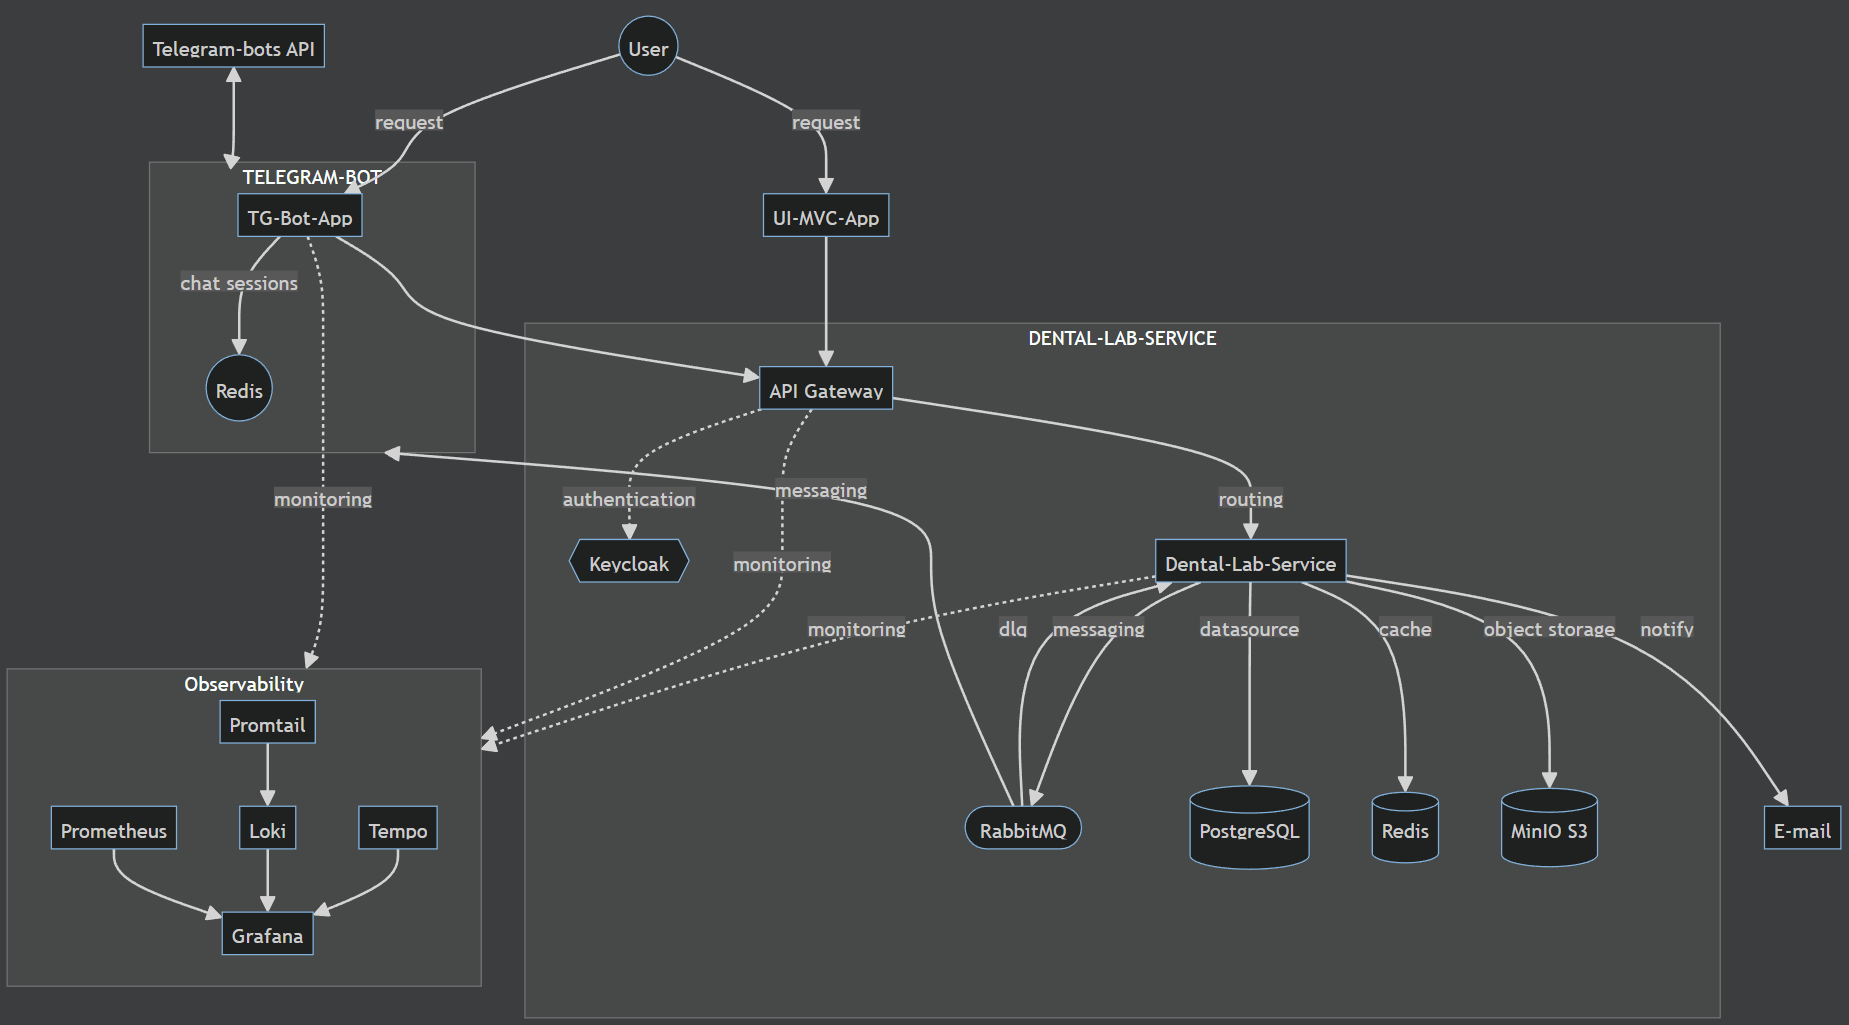
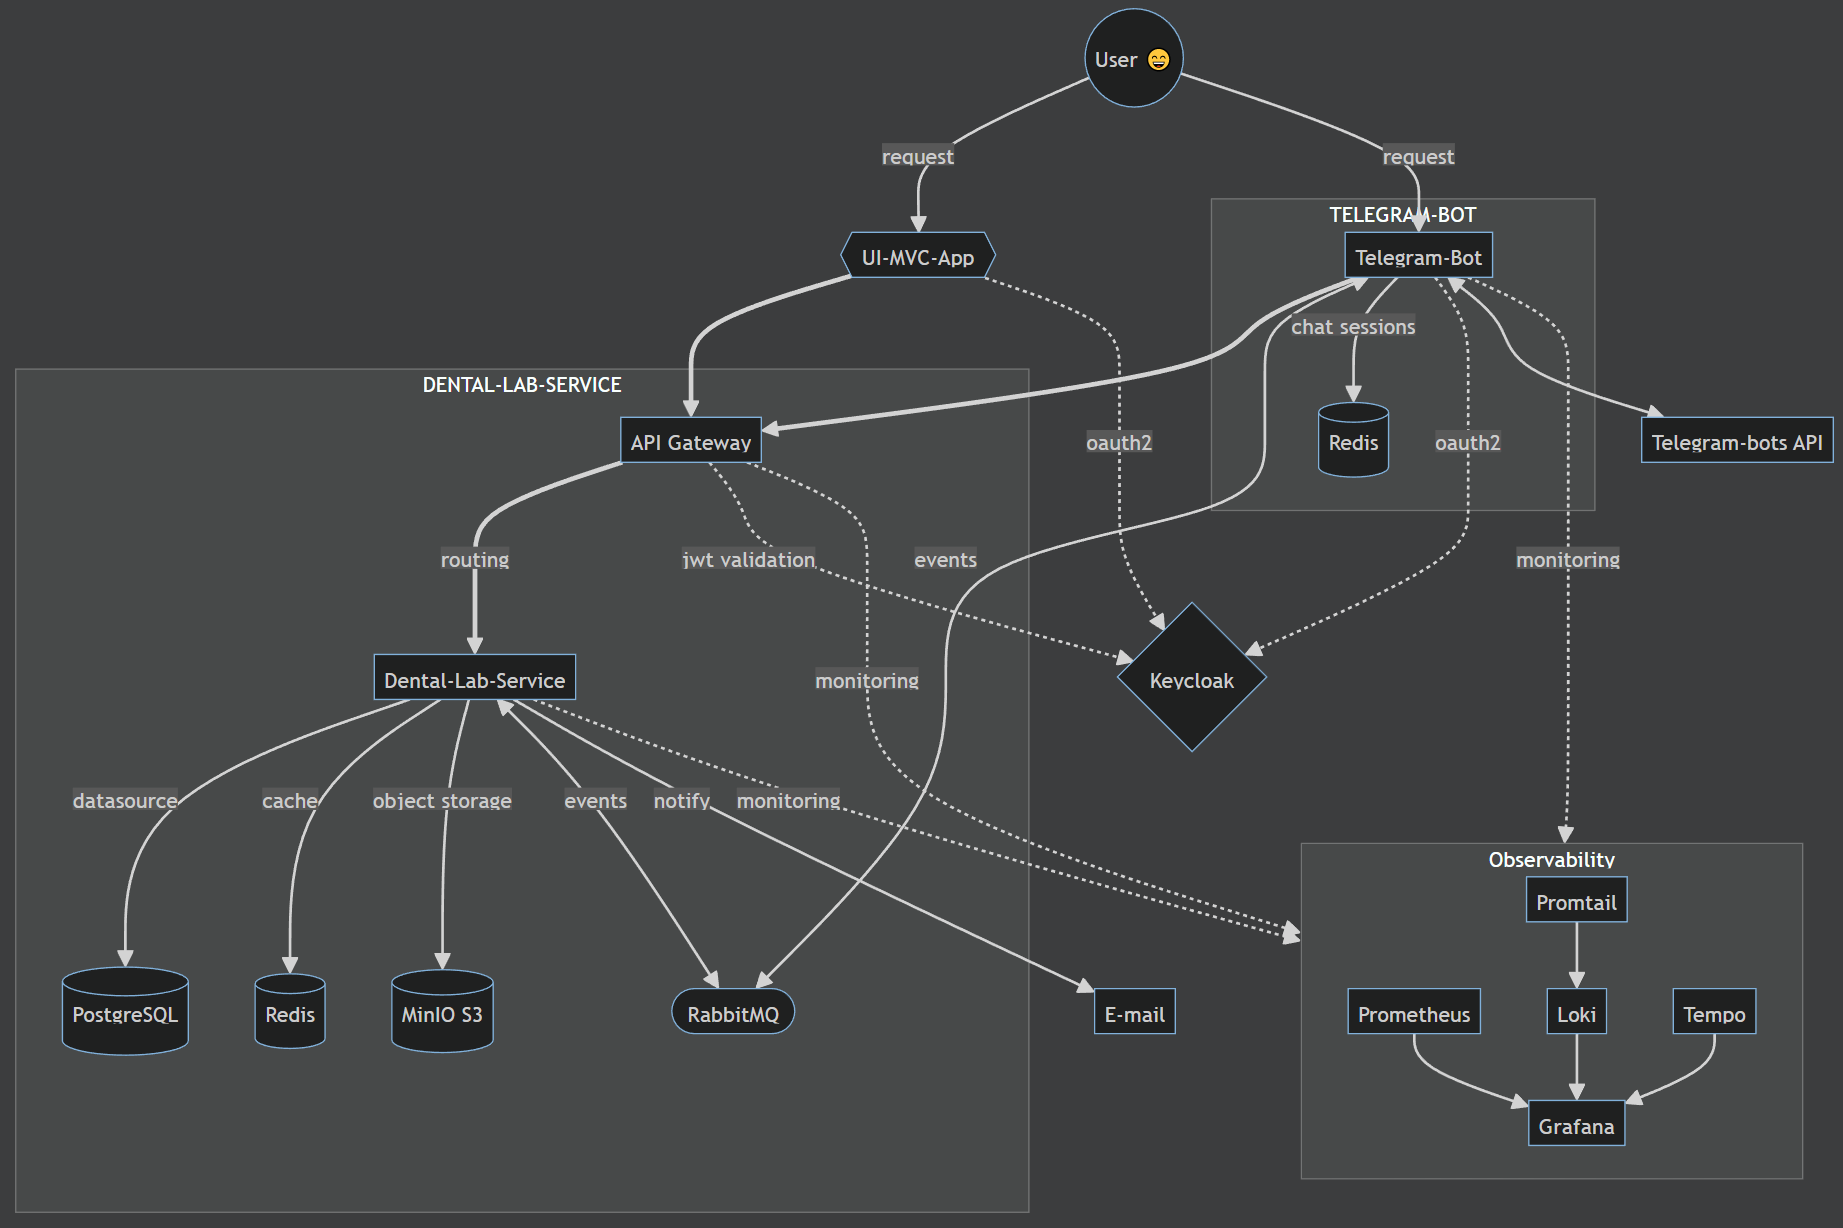
update README.md

diff --git a/README.md b/README.md
@@ -108,10 +108,157 @@
 - Gradle
 
 ---
-> ## Архитектура ##
+> ## Архитектура
+
+Система состоит из нескольких независимых компонентов:
+пользовательского `веб-интерфейса`, `Telegram-бота`, `backend-сервиса` и `инфраструктурных сервисов`.
+Бизнес-логика сосредоточена в `Dental-Lab-Service`, а взаимодействие между компонентами осуществляется через `API Gateway` и `RabbitMQ`.
+Аутентификация и авторизация осуществляется через сервис `Keycloak`.
 
 <img src="./docs/diagram.png">
 
 ---
 
 [Файл диаграммы](docs/diagram.md)
+
+---
+> ## Технические решения
+
+### RabbitMQ вместо Apache Kafka
+
+Для асинхронного взаимодействия между сервисами выбран RabbitMQ.
+
+Причины выбора:
+
+- небольшой объём сообщений;
+- отсутствие необходимости в event streaming;
+- простота эксплуатации и меньшие требования к ресурсам;
+- поддержка маршрутизации сообщений и Dead Letter Queue.
+
+Для данного проекта использование Apache Kafka являлось бы избыточным решением.
+
+---
+### Keycloak вместо собственной реализации авторизации
+
+Для аутентификации и авторизации используется Keycloak.
+
+Причины выбора:
+
+- поддержка OAuth2 и OpenID Connect;
+- централизованное управление пользователями;
+- поддержка ролей и политик доступа;
+- готовая интеграция со Spring Security.
+
+Это позволяет сосредоточиться на бизнес-логике приложения, не реализуя собственный Identity Provider.
+
+---
+### Dead Letter Queue
+
+Для обработки ошибок доставки сообщений используется отдельная DLQ очередь.
+
+Сценарий:
+
+1. Dental Lab Service отправляет сообщение.
+2. Telegram Bot обрабатывает сообщение.
+3. При ошибке сообщение попадает в DLQ.
+4. Dental Lab Service анализирует причину ошибки и выполняет альтернативные действия.
+
+Например:
+
+- отправка Email уведомления;
+- запись метрики;
+- логирование инцидента.
+
+---
+### Stateful Telegram Bot
+
+Для поддержки многошаговых сценариев взаимодействия реализован механизм ChatSession.
+```
+public class ChatSession {
+
+    private Long chatId;
+    private UUID userId;
+    private Context context;
+
+    public static class Context {
+
+        private BotCommands command;
+        private Map<String, String> attributes;
+        private int step;
+    }
+}
+```
+При каждом запросе CommandHandler сохраняет в сессию текущую команду, шаг (у каждого CommandHandler свои шаги) и по необходимости атрибуты.
+
+```
+    private SendMessage input(ChatSession session, Locale locale, String messageText, int messageId) {
+        NewDentalWork newDentalWork = ... // парсинг сообщения в данные для объекта нового заказа
+        ... // создание ответа со списком видов работ... 
+        String callbackQueryPrefix = ChatBotUtility.callBackQueryPrefix(BotCommands.NEW_DENTAL_WORK, Steps.SELECT_PRODUCT_TYPE.ordinal());
+        session.addAttribute(Attributes.NEW_DENTAL_WORK.name(), newDentalWorkAsString(newDentalWork));
+        session.setCommand(BotCommands.NEW_DENTAL_WORK);
+        session.setStep(Steps.SELECT_PRODUCT_TYPE.ordinal());
+        chatSessionService.save(session);
+        ... // удаление предыдущего сообщения 
+        return createSendMessage(session.getChatId(), text, keyboardMarkup);
+    }
+```
+При новом запросе будет работать следующий шаг с использованием сохранённых в сессии данных.
+
+---
+### Использование Redis
+
+Redis применяется в нескольких сервисах:
+
+- кэширование часто запрашиваемых данных в dental-lab-service;
+- хранение ChatSession Telegram пользователей;
+- реализация Rate Limiting в API Gateway.
+
+По факту Redis используется не только как кэш, но и как быстрое in-memory хранилище.
+
+---
+> ## Observability
+
+В проекте реализован полный цикл наблюдаемости приложения.
+
+### Метрики
+
+**Prometheus + Micrometer**
+
+Собираются:
+
+- HTTP latency
+- количество запросов
+- ошибки
+- Resilience4J
+- бизнес-метрики
+
+### Логи
+
+**Loki + Promtail**
+
+Централизованно собираются структурированные JSON логи.
+
+### Трассировка
+
+**OpenTelemetry + Tempo**
+
+Поддерживается сквозная трассировка запросов между сервисами по Trace ID.
+
+### Визуализация
+
+**Grafana Dashboard**
+
+---
+> ## Скриншоты
+
+
+---
+> ## Запуск проекта
+
+**Требования**
+
+**Локальный запуск**
+
+---
+> ## Автор

diff --git a/docs/diagram.md b/docs/diagram.md
@@ -1,34 +1,36 @@
 ```mermaid
 flowchart TD
-    
-    USER((User)) --> |request| UI[UI-MVC-App]
-    USER --> |request| TG[TG-Bot-App]
-    
-    UI --> API[API Gateway]
 
     subgraph DENTAL-LAB-SERVICE
-        API -.-> |authentication| KC{{Keycloak}}
-        API --> |routing| DLS[Dental-Lab-Service]
-        DLS --> |messaging| RMQ([RabbitMQ])
-        RMQ --> |dlq| DLS
+        API[API Gateway] ==> |routing| DLS[Dental-Lab-Service]
         DLS --> |datasource| PG[(PostgreSQL)]
         DLS --> |cache| RDS[(Redis)]
         DLS --> |object storage| S3[(MinIO S3)]
+        DLS <--> |events| RMQ([RabbitMQ])
     end
-    
-    DLS --> |notify| EMAIL[E-mail]
 
     subgraph TELEGRAM-BOT
-        TG --> API
-        TG --> |chat sessions| RDS2((Redis))
+        TG[Telegram-Bot] ==> API
+        TG <--> |events| RMQ
+        TG --> |chat sessions| RDS2[(Redis)]
     end
 
-    RMQ --> |messaging| TELEGRAM-BOT
-    TG-API[Telegram-bots API] <--> TELEGRAM-BOT
+    USER((User)) --> |request| UI{{UI-MVC-App}}
+    USER --> |request| TG
+
+    UI ==> API
+
+    API -.-> |jwt validation| KC{Keycloak}
+    UI -.-> |oauth2| KC
+    TG -.-> |oauth2| KC
+ 
+    DLS --> |notify| EMAIL[E-mail]
 
     DLS -.-> |monitoring| Observability
     API -.-> |monitoring| Observability
     TG -.-> |monitoring| Observability
+    
+    TG <--> TG-API[Telegram-bots API]
 
     subgraph Observability
         PROM[Prometheus] --> GR[Grafana]